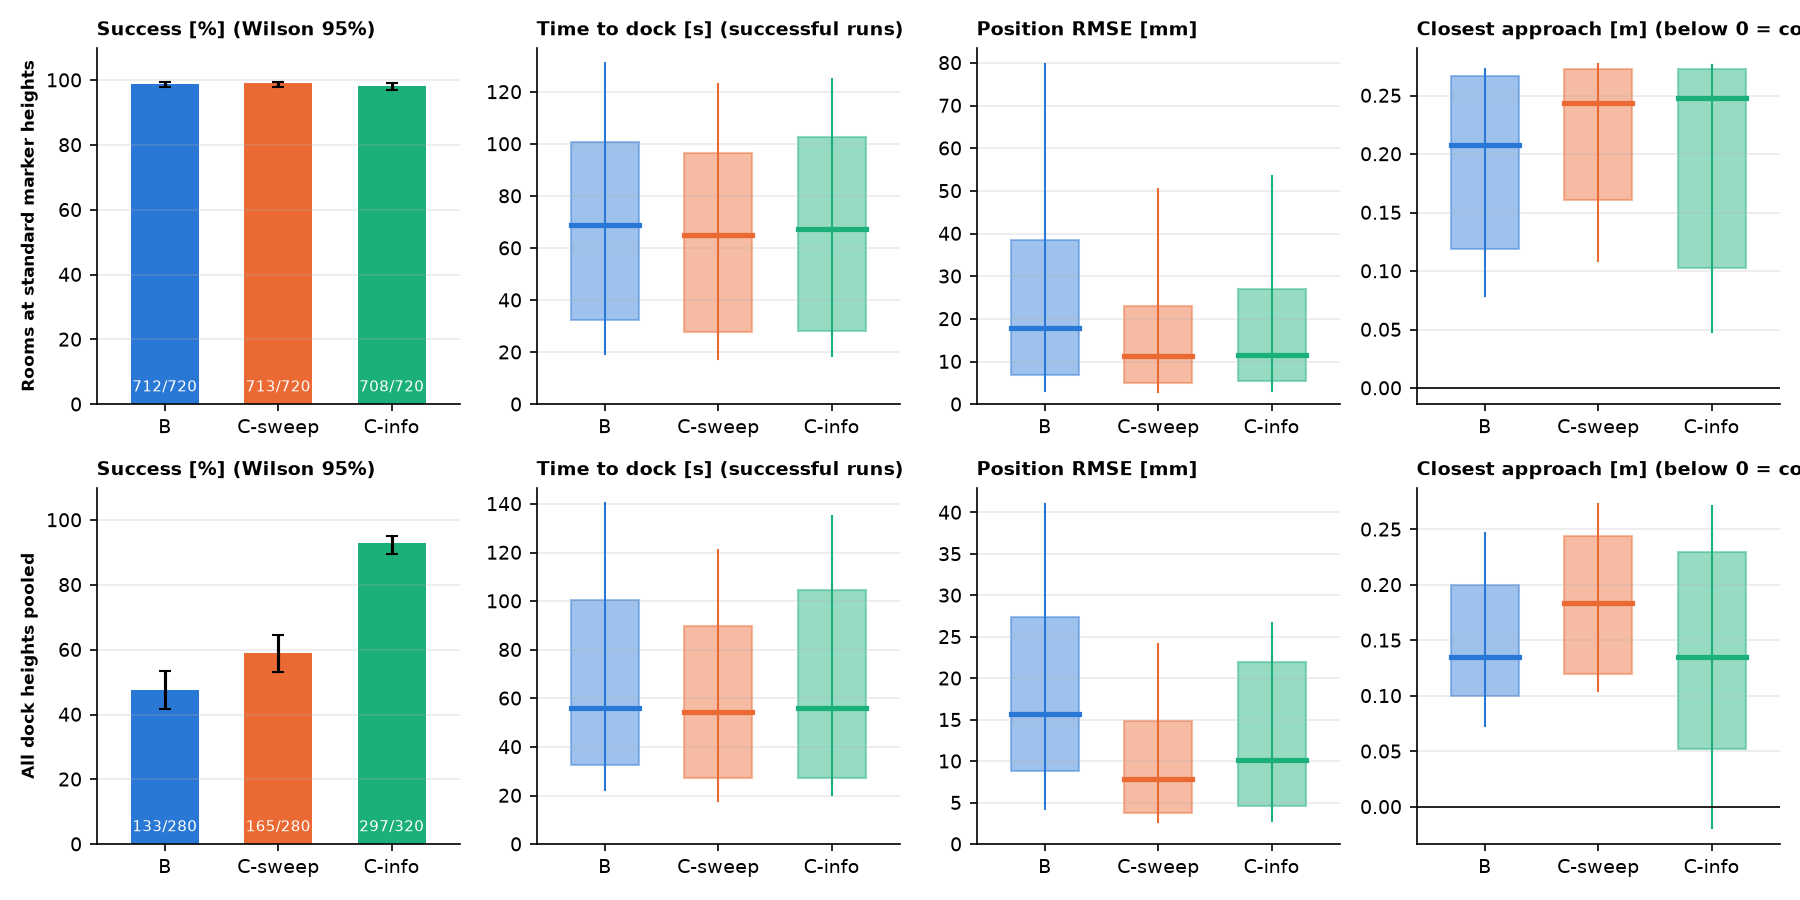
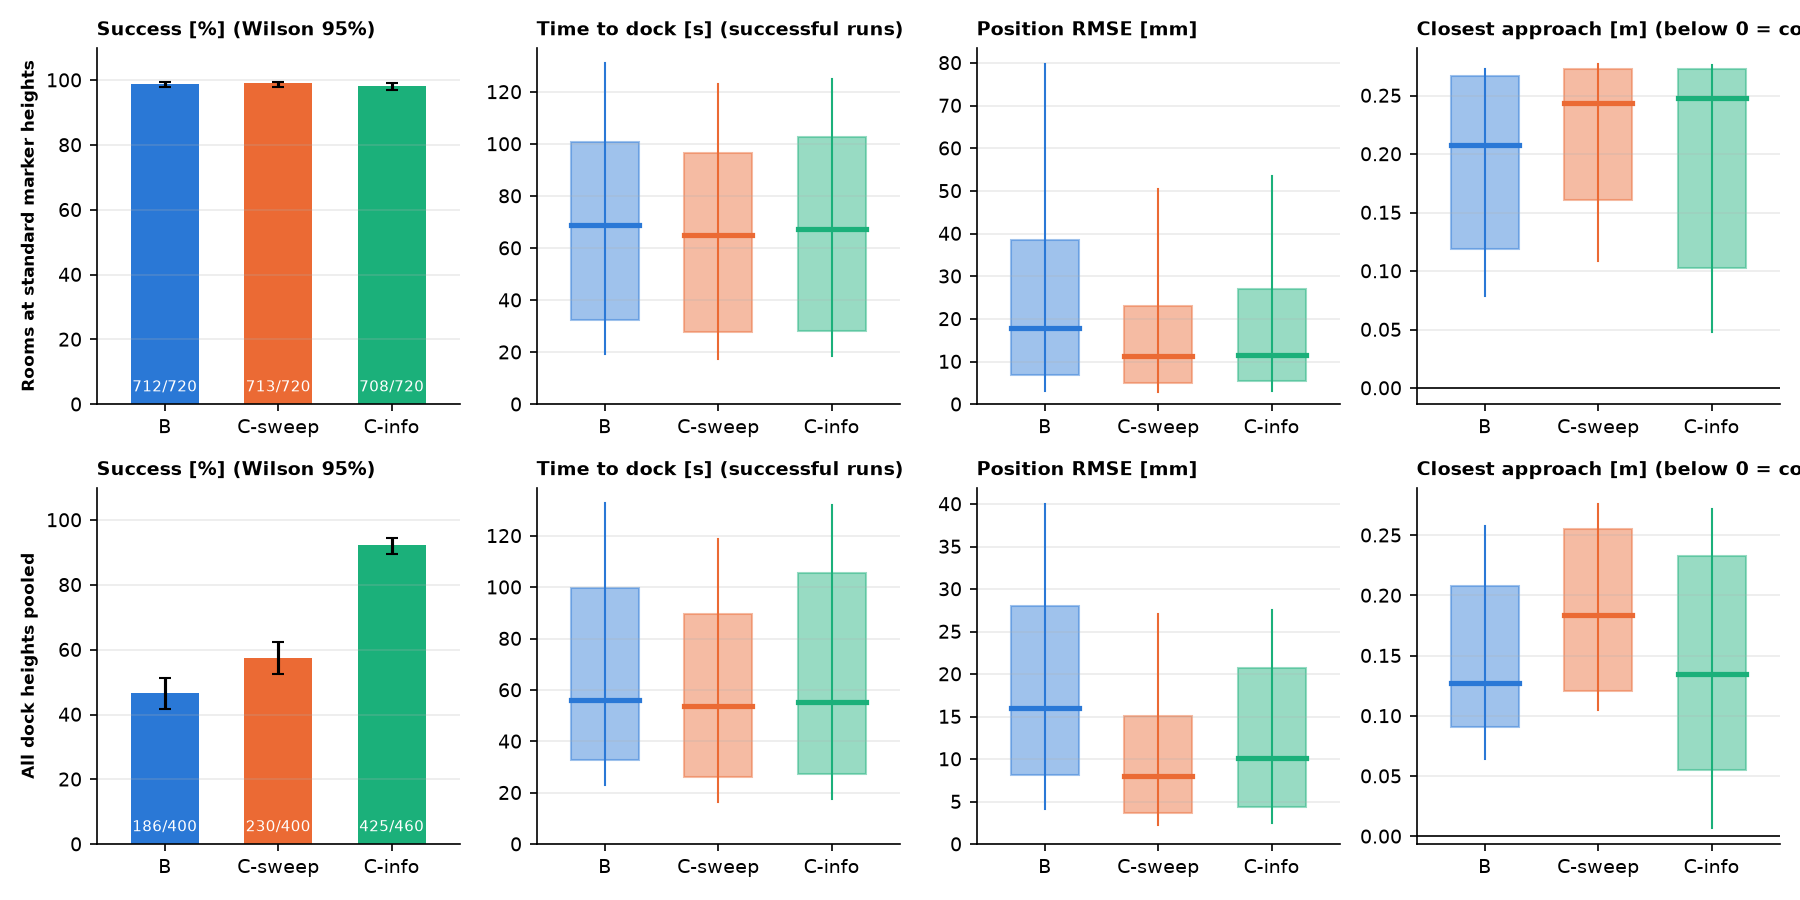
Updated figures, post data collection

diff --git a/scripts/analyse.py b/scripts/analyse.py
@@ -96,7 +96,9 @@ def pct(rows):
     """(percent docked, lower, upper) with a Wilson 95% interval."""
     n, k = len(rows), sum(r["ok"] for r in rows)
     lo, hi = wilson_interval(k, n)
-    return 100 * k / n, 100 * lo, 100 * hi
+    p = k / n
+    lo, hi = min(lo, p), max(hi, p)             # float rounding can put the interval a hair inside p (a negative error bar)
+    return 100 * p, 100 * lo, 100 * hi
 
 
 def md_table(head, body):
@@ -464,6 +466,73 @@ def main():
         save(fig, "11_tall_hard_rooms.png")
         out += ["## 11. Tall docks (0.45 and 0.6 m) in the hardest rooms, C-info (seeds 9000..)\n",
                 md_table(["room", "height", "docked", "median time [s]", "median RMSE [mm]", "contacts", "timeouts"], body), ""]
+
+    # ============================================================== 12. camera profile (D455) against the ideal camera, same seeds
+    cams = load("d455_pilot") + load("d455_full")
+    if cams:
+        ideal = main_rows + held + hrows + mixed
+        grp = lambda r: ("rooms, standard heights" if r["layout"] == "fixed" else "mixed heights" if "+heights" in r["layout"] else f"{r['z']:g} m dock")
+        dr = [dict(r, layout=r["layout"].replace("+d455", ""), config=r["config"] + "|d455") for r in cams]
+        keys = {(r["level"], r["layout"], r["seed"]) for r in dr}
+        ir = [dict(r, config=r["config"] + "|ideal") for r in ideal if (r["level"], r["layout"], r["seed"]) in keys]
+        both = ir + dr
+        groups = ["rooms, standard heights"] + sorted({grp(r) for r in dr} - {"rooms, standard heights"}, key=lambda g: (g.startswith("mixed"), float(g.split()[0]) if g[0].isdigit() else 0))
+        body, bars = [], {}
+        for g in groups:
+            for c in CFGS:
+                a = [r for r in ir if r["config"] == c + "|ideal" and grp(r) == g]
+                b = [r for r in dr if r["config"] == c + "|d455" and grp(r) == g]
+                if not b:
+                    continue
+                bars[(g, c)] = (a, b)
+                body.append([g, c, len(b), frac(a), frac(b), f"{med(a, 'pos_rmse_m', 1000):.1f} / {med(b, 'pos_rmse_m', 1000):.1f}",
+                             f"{med([r for r in a if r['ok']], 'duration_s'):.0f} / {med([r for r in b if r['ok']], 'duration_s'):.0f}",
+                             f"{sum(r['outcome'] == 'contact' for r in a)} / {sum(r['outcome'] == 'contact' for r in b)}",
+                             f"{sum(r['outcome'] == 'false dock' for r in a)} / {sum(r['outcome'] == 'false dock' for r in b)}"])
+        out += ["## 12. Camera profile: RealSense D455 against the ideal camera (same seeds, same rooms and dock heights)\n",
+                "Only the seeds the D455 runs have are used from the ideal camera, so every row compares like with like. Cells show ideal / D455.\n",
+                md_table(["scope", "config", "trials", "docked ideal", "docked D455", "median RMSE [mm]", "median time to dock [s]", "contacts", "false docks"], body), ""]
+        fig, axs = plt.subplots(1, 2, figsize=(11, 3.8), gridspec_kw={"width_ratios": [1.6, 1]})
+        w = 0.13
+        for gi, g in enumerate(groups):
+            for ci, c in enumerate(CFGS):
+                if (g, c) not in bars:
+                    continue
+                for ki, (rows_, hatch, al) in enumerate(zip(bars[(g, c)], ["", "//"], [0.55, 1.0])):
+                    if not rows_:
+                        continue
+                    p_, lo, hi = pct(rows_); x = gi + (ci * 2 + ki - 2.5) * w
+                    axs[0].bar(x, p_, width=w, color=COL[c], alpha=al, hatch=hatch, edgecolor="white")
+                    axs[0].errorbar(x, p_, yerr=[[p_ - lo], [hi - p_]], color="k", lw=0.7, capsize=1.5)
+        axs[0].set_xticks(range(len(groups))); axs[0].set_xticklabels(groups, fontsize=8); axs[0].set_ylim(0, 108); axs[0].set_ylabel("docked [%]")
+        axs[0].set_title("Docking: ideal (plain) against D455 (hatched), per config"); style(axs[0])
+        std = "rooms, standard heights"
+        for ci, c in enumerate(CFGS):
+            for ki, key in enumerate(["ideal", "d455"]):
+                v = vals([r for r in both if r["config"] == f"{c}|{key}" and grp(r) == std], "pos_rmse_m", 1000)
+                if len(v):
+                    bp = axs[1].boxplot(v, positions=[ci * 2.4 + ki * 0.9], widths=0.7, showfliers=False, patch_artist=True, medianprops=dict(color="k"))
+                    bp["boxes"][0].set(facecolor=COL[c], alpha=0.55 if key == "ideal" else 1.0, hatch="" if key == "ideal" else "//")
+        axs[1].set_xticks([ci * 2.4 + 0.45 for ci in range(3)]); axs[1].set_xticklabels(CFGS); axs[1].set_ylabel("position RMSE [mm]")
+        axs[1].set_title("Estimation, standard heights (ideal / D455)"); style(axs[1])
+        save(fig, "12_camera_d455.png")
+        body = []
+        for c in CFGS:
+            for g in groups:
+                sub = [r for r in both if grp(r) == g]
+                if not [r for r in sub if r["config"] == c + "|d455"]:
+                    continue
+                cells = []
+                for k, sc, nd in [("docked", 1, 0), ("pos_rmse_m", 1000, 1), ("duration_s", 1, 0), ("contact", 1, 0)]:
+                    m = cmp_row(sub, c + "|d455", c + "|ideal", k)
+                    cells.append(fmt_ci(m, sc, nd))
+                body.append([c, g, len({(r["level"], r["seed"]) for r in sub if r["config"] == c + "|d455"})] + cells)
+        out += ["Paired difference D455 minus ideal on the same seed [median or pp, 95% CI over seeds; nan = too few seeds for an interval]:\n",
+                md_table(["config", "scope", "seeds", "docking [pp]", "RMSE [mm]", "time to dock [s]", "contact [pp]"], body), "",
+                "How to read it. The D455 is fine to take into a full study if, at the standard heights, docking stays within a few points of the ideal "
+                "camera with no rise in contacts, the estimation error does not get clearly worse, and the dock-height result survives (C-info still docks "
+                "at 0.45 and 0.6 m; B and C-sweep still cannot). A drop that the interval excludes zero for, or new false docks, means the estimator or "
+                "the heading rule needs a look before spending a full study on it.\n"]
 
     (RES / "final_tables.md").write_text("\n".join(out))
     print("\n".join(out))

diff --git a/results/final_tables.md b/results/final_tables.md
@@ -2,7 +2,7 @@
 
 Common cap 300 s: a longer run counts as a timeout. Intervals: Wilson (proportions), bootstrap over seeds (paired differences).
 
-Rooms block: 2160 trials (360 development and 360 held-out trials per config). Height block: 880 trials over dock heights 0.2, 0.25, 0.3, 0.35, 0.45, 0.6, 0.9 m.
+Rooms block: 2160 trials (360 development and 360 held-out trials per config). Height block: 1260 trials over dock heights 0.2, 0.25, 0.3, 0.35, 0.45, 0.6, 0.9 m.
 
 ## 1. Pooled scorecard (box: 25-75th percentile, line: median, whisker: 10-90th)
 
@@ -11,21 +11,21 @@ Rooms block: 2160 trials (360 development and 360 held-out trials per config). H
 | Rooms at standard marker heights | B | 720 | 712/720 (99%) | 69 | 17.9 | 0.90 | 0.21 | 0 |
 | Rooms at standard marker heights | C-sweep | 720 | 713/720 (99%) | 65 | 11.2 | 0.80 | 0.24 | 1 |
 | Rooms at standard marker heights | C-info | 720 | 708/720 (98%) | 67 | 11.5 | 0.80 | 0.25 | 6 |
-| All dock heights pooled | B | 280 | 133/280 (48%) | 56 | 15.6 | 0.92 | 0.14 | 0 |
-| All dock heights pooled | C-sweep | 280 | 165/280 (59%) | 54 | 7.8 | 0.85 | 0.18 | 0 |
-| All dock heights pooled | C-info | 320 | 297/320 (93%) | 56 | 10.2 | 0.80 | 0.14 | 1 |
+| All dock heights pooled | B | 400 | 186/400 (46%) | 56 | 16.0 | 0.92 | 0.13 | 0 |
+| All dock heights pooled | C-sweep | 400 | 230/400 (58%) | 54 | 8.0 | 0.85 | 0.18 | 0 |
+| All dock heights pooled | C-info | 460 | 425/460 (92%) | 56 | 10.1 | 0.79 | 0.14 | 1 |
 
 ## 2. Docking success by dock-marker height (development, held-out and fresh seeds pooled)
 
 | height | B | C-sweep | C-info | B, tilt free |
 |---|---|---|---|---|
-| 0.2 m | 54/80 (68%) | 63/80 (79%) | 60/80 (75%) | 17/20 (85%) |
-| 0.25 m | 39/40 (98%) | 40/40 (100%) | 40/40 (100%) | - |
-| 0.3 m | 38/40 (95%) | 40/40 (100%) | 40/40 (100%) | 19/20 (95%) |
-| 0.35 m | 2/40 (5%) | 22/40 (55%) | 40/40 (100%) | - |
-| 0.45 m | 0/40 (0%) | 0/40 (0%) | 40/40 (100%) | 0/20 (0%) |
-| 0.6 m | 0/40 (0%) | 0/40 (0%) | 39/40 (98%) | 0/20 (0%) |
-| 0.9 m | - | - | 38/40 (95%) | - |
+| 0.2 m | 69/100 (69%) | 80/100 (80%) | 75/100 (75%) | 17/20 (85%) |
+| 0.25 m | 59/60 (98%) | 59/60 (98%) | 59/60 (98%) | - |
+| 0.3 m | 56/60 (93%) | 60/60 (100%) | 59/60 (98%) | 19/20 (95%) |
+| 0.35 m | 2/60 (3%) | 31/60 (52%) | 60/60 (100%) | - |
+| 0.45 m | 0/60 (0%) | 0/60 (0%) | 59/60 (98%) | 0/20 (0%) |
+| 0.6 m | 0/60 (0%) | 0/60 (0%) | 58/60 (97%) | 0/20 (0%) |
+| 0.9 m | - | - | 55/60 (92%) | - |
 
 Seeds: development 0..19, held-out 5000..5019 (both at every height), 6000..6039 (0.2 m only). B and C-sweep were not run at 0.9 m (cannot dock above about 0.33 m).
 
@@ -115,39 +115,39 @@ Pooled over all 12 rooms:
 | rooms | B | 720 | 712 | 1 | 0 | 6 | 1 |
 | rooms | C-sweep | 720 | 713 | 0 | 1 | 4 | 2 |
 | rooms | C-info | 720 | 708 | 0 | 6 | 5 | 1 |
-| 0.2 m | B | 80 | 54 | 26 | 0 | 0 | 0 |
-| 0.2 m | C-sweep | 80 | 63 | 17 | 0 | 0 | 0 |
-| 0.2 m | C-info | 80 | 60 | 19 | 1 | 0 | 0 |
-| 0.25 m | B | 40 | 39 | 1 | 0 | 0 | 0 |
-| 0.25 m | C-sweep | 40 | 40 | 0 | 0 | 0 | 0 |
-| 0.25 m | C-info | 40 | 40 | 0 | 0 | 0 | 0 |
-| 0.3 m | B | 40 | 38 | 1 | 0 | 1 | 0 |
-| 0.3 m | C-sweep | 40 | 40 | 0 | 0 | 0 | 0 |
-| 0.3 m | C-info | 40 | 40 | 0 | 0 | 0 | 0 |
-| 0.35 m | B | 40 | 2 | 0 | 0 | 38 | 0 |
-| 0.35 m | C-sweep | 40 | 22 | 12 | 0 | 6 | 0 |
-| 0.35 m | C-info | 40 | 40 | 0 | 0 | 0 | 0 |
-| 0.45 m | B | 40 | 0 | 0 | 0 | 39 | 1 |
-| 0.45 m | C-sweep | 40 | 0 | 0 | 0 | 39 | 1 |
-| 0.45 m | C-info | 40 | 40 | 0 | 0 | 0 | 0 |
-| 0.6 m | B | 40 | 0 | 0 | 0 | 39 | 1 |
-| 0.6 m | C-sweep | 40 | 0 | 0 | 0 | 39 | 1 |
-| 0.6 m | C-info | 40 | 39 | 0 | 0 | 1 | 0 |
-| 0.9 m | C-info | 40 | 38 | 0 | 0 | 0 | 2 |
+| 0.2 m | B | 100 | 69 | 31 | 0 | 0 | 0 |
+| 0.2 m | C-sweep | 100 | 80 | 20 | 0 | 0 | 0 |
+| 0.2 m | C-info | 100 | 75 | 24 | 1 | 0 | 0 |
+| 0.25 m | B | 60 | 59 | 1 | 0 | 0 | 0 |
+| 0.25 m | C-sweep | 60 | 59 | 0 | 0 | 1 | 0 |
+| 0.25 m | C-info | 60 | 59 | 0 | 0 | 1 | 0 |
+| 0.3 m | B | 60 | 56 | 1 | 0 | 3 | 0 |
+| 0.3 m | C-sweep | 60 | 60 | 0 | 0 | 0 | 0 |
+| 0.3 m | C-info | 60 | 59 | 0 | 0 | 1 | 0 |
+| 0.35 m | B | 60 | 2 | 0 | 0 | 58 | 0 |
+| 0.35 m | C-sweep | 60 | 31 | 17 | 0 | 12 | 0 |
+| 0.35 m | C-info | 60 | 60 | 0 | 0 | 0 | 0 |
+| 0.45 m | B | 60 | 0 | 0 | 0 | 59 | 1 |
+| 0.45 m | C-sweep | 60 | 0 | 0 | 0 | 59 | 1 |
+| 0.45 m | C-info | 60 | 59 | 0 | 0 | 0 | 1 |
+| 0.6 m | B | 60 | 0 | 0 | 0 | 59 | 1 |
+| 0.6 m | C-sweep | 60 | 0 | 0 | 0 | 59 | 1 |
+| 0.6 m | C-info | 60 | 58 | 0 | 0 | 1 | 1 |
+| 0.9 m | C-info | 60 | 55 | 0 | 0 | 0 | 5 |
 
-## 6. False docks (the robot stops and claims the dock but misses the 0.10 m / 5 degree tolerance)
+## 6. False docks by dock height, height block (the robot stops and claims the dock but misses the 0.10 m / 5 degree tolerance)
 
 | height | B | C-sweep | C-info |
 |---|---|---|---|
-| 0.2 m | 26/80 | 17/80 | 19/80 |
-| 0.25 m | 2/760 | 0/760 | 0/760 |
-| 0.3 m | 1/40 | 0/40 | 0/40 |
-| 0.35 m | 0/40 | 12/40 | 0/40 |
-| 0.45 m | 0/40 | 0/40 | 0/40 |
-| 0.6 m | 0/40 | 0/40 | 0/40 |
-| 0.9 m | 0/0 | 0/0 | 0/40 |
+| 0.2 m | 31/100 | 20/100 | 24/100 |
+| 0.25 m | 1/60 | 0/60 | 0/60 |
+| 0.3 m | 1/60 | 0/60 | 0/60 |
+| 0.35 m | 0/60 | 17/60 | 0/60 |
+| 0.45 m | 0/60 | 0/60 | 0/60 |
+| 0.6 m | 0/60 | 0/60 | 0/60 |
+| 0.9 m | 0/0 | 0/0 | 0/60 |
 
-77 false docks in all; median heading error 6.8 deg, median position miss 18 mm.
+95 false docks in all (rooms at standard heights included: B 1, C-sweep 0, C-info 0); median heading error 6.7 deg, median position miss 18 mm.
 
 ## 7. LQR path follower against go_to_point, same seeds
 
@@ -250,26 +250,90 @@ Reproducibility: 720 of 720 gaze-block trials repeated the main-block outcome an
 
 | config | n | docked | median RMSE [mm] | median landmarks | median coverage [%] |
 |---|---|---|---|---|---|
-| B | 60 | 30/60 (50%) | 37.0 | 6 | 72 |
-| C-sweep | 60 | 32/60 (53%) | 22.8 | 6 | 66 |
-| C-info | 60 | 57/60 (95%) | 23.1 | 6 | 62 |
+| B | 90 | 47/90 (52%) | 41.3 | 7 | 70 |
+| C-sweep | 90 | 52/90 (58%) | 21.6 | 6 | 66 |
+| C-info | 90 | 84/90 (93%) | 24.1 | 6 | 66 |
 
 | pair | metric | seeds | difference [95% CI] |
 |---|---|---|---|
-| C-info - B | docking [pp] | 60 | +45.0 [+31.7, +58.3] |
-| C-info - B | RMSE [mm] | 60 | -15.5 [-24.0, -6.5] |
-| C-sweep - B | docking [pp] | 60 | +3.3 [-3.3, +10.0] |
-| C-sweep - B | RMSE [mm] | 60 | -13.0 [-17.2, -1.7] |
-| C-info - C-sweep | docking [pp] | 60 | +41.7 [+26.7, +55.0] |
-| C-info - C-sweep | RMSE [mm] | 60 | -1.8 [-4.3, +1.0] |
+| C-info - B | docking [pp] | 90 | +41.1 [+30.0, +52.2] |
+| C-info - B | RMSE [mm] | 90 | -17.0 [-21.7, -11.0] |
+| C-sweep - B | docking [pp] | 90 | +5.6 [+0.0, +11.1] |
+| C-sweep - B | RMSE [mm] | 90 | -17.2 [-26.6, -10.5] |
+| C-info - C-sweep | docking [pp] | 90 | +35.6 [+23.3, +47.8] |
+| C-info - C-sweep | RMSE [mm] | 90 | -0.8 [-2.5, +3.0] |
 
 ## 11. Tall docks (0.45 and 0.6 m) in the hardest rooms, C-info (seeds 9000..)
 
 | room | height | docked | median time [s] | median RMSE [mm] | contacts | timeouts |
 |---|---|---|---|---|---|---|
-| cluttered_14 | 0.45 m | 16/20 (80%) | 228 | 58.0 | 3 | 1 |
-| cluttered_14 | 0.6 m | 16/20 (80%) | 228 | 58.0 | 3 | 1 |
-| people_random | 0.45 m | 20/20 (100%) | 57 | 9.2 | 0 | 0 |
-| people_random | 0.6 m | 20/20 (100%) | 56 | 8.8 | 0 | 0 |
-| sparse_noisy_odom | 0.45 m | 18/20 (90%) | 48 | 28.5 | 1 | 1 |
-| sparse_noisy_odom | 0.6 m | 18/20 (90%) | 48 | 47.7 | 1 | 1 |
+| cluttered_14 | 0.45 m | 25/30 (83%) | 209 | 63.0 | 3 | 2 |
+| cluttered_14 | 0.6 m | 25/30 (83%) | 208 | 63.7 | 3 | 2 |
+| people_random | 0.45 m | 29/30 (97%) | 75 | 8.3 | 0 | 0 |
+| people_random | 0.6 m | 29/30 (97%) | 71 | 8.6 | 0 | 0 |
+| sparse_noisy_odom | 0.45 m | 28/30 (93%) | 50 | 43.1 | 1 | 1 |
+| sparse_noisy_odom | 0.6 m | 28/30 (93%) | 50 | 47.7 | 1 | 1 |
+
+## 12. Camera profile: RealSense D455 against the ideal camera (same seeds, same rooms and dock heights)
+
+Only the seeds the D455 runs have are used from the ideal camera, so every row compares like with like. Cells show ideal / D455.
+
+| scope | config | trials | docked ideal | docked D455 | median RMSE [mm] | median time to dock [s] | contacts | false docks |
+|---|---|---|---|---|---|---|---|---|
+| rooms, standard heights | B | 240 | 234/240 (98%) | 236/240 (98%) | 20.1 / 17.1 | 71 / 66 | 0 / 0 | 0 / 0 |
+| rooms, standard heights | C-sweep | 240 | 236/240 (98%) | 238/240 (99%) | 12.1 / 20.3 | 67 / 66 | 1 / 1 | 0 / 0 |
+| rooms, standard heights | C-info | 240 | 234/240 (98%) | 228/240 (95%) | 12.2 / 20.9 | 68 / 66 | 3 / 2 | 0 / 0 |
+| 0.2 m dock | B | 20 | 15/20 (75%) | 15/20 (75%) | 15.6 / 17.6 | 87 / 60 | 0 / 0 | 5 / 5 |
+| 0.2 m dock | C-sweep | 20 | 15/20 (75%) | 16/20 (80%) | 7.6 / 13.6 | 83 / 56 | 0 / 0 | 5 / 4 |
+| 0.2 m dock | C-info | 20 | 19/20 (95%) | 15/20 (75%) | 10.4 / 17.5 | 56 / 62 | 0 / 0 | 1 / 4 |
+| 0.25 m dock | B | 20 | 20/20 (100%) | 20/20 (100%) | 15.4 / 17.0 | 68 / 59 | 0 / 0 | 0 / 0 |
+| 0.25 m dock | C-sweep | 20 | 20/20 (100%) | 20/20 (100%) | 7.8 / 14.4 | 57 / 55 | 0 / 0 | 0 / 0 |
+| 0.25 m dock | C-info | 20 | 20/20 (100%) | 20/20 (100%) | 9.7 / 15.3 | 55 / 59 | 0 / 0 | 0 / 0 |
+| 0.3 m dock | B | 20 | 20/20 (100%) | 20/20 (100%) | 15.8 / 14.6 | 71 / 61 | 0 / 0 | 0 / 0 |
+| 0.3 m dock | C-sweep | 20 | 20/20 (100%) | 20/20 (100%) | 8.9 / 13.9 | 57 / 55 | 0 / 0 | 0 / 0 |
+| 0.3 m dock | C-info | 20 | 20/20 (100%) | 20/20 (100%) | 9.9 / 15.2 | 56 / 59 | 0 / 0 | 0 / 0 |
+| 0.35 m dock | B | 20 | 0/20 (0%) | 2/20 (10%) | 17.6 / 28.2 | nan / 111 | 0 / 0 | 0 / 0 |
+| 0.35 m dock | C-sweep | 20 | 9/20 (45%) | 11/20 (55%) | 7.8 / 17.6 | 42 / 57 | 0 / 0 | 7 / 9 |
+| 0.35 m dock | C-info | 20 | 20/20 (100%) | 20/20 (100%) | 10.6 / 16.8 | 56 / 58 | 0 / 0 | 0 / 0 |
+| 0.45 m dock | B | 20 | 0/20 (0%) | 0/20 (0%) | 24.4 / 32.5 | nan / nan | 0 / 0 | 0 / 0 |
+| 0.45 m dock | C-sweep | 20 | 0/20 (0%) | 0/20 (0%) | 7.5 / 12.4 | nan / nan | 0 / 0 | 0 / 0 |
+| 0.45 m dock | C-info | 20 | 20/20 (100%) | 20/20 (100%) | 10.8 / 15.3 | 56 / 59 | 0 / 0 | 0 / 0 |
+| 0.6 m dock | B | 20 | 0/20 (0%) | 0/20 (0%) | 26.5 / 38.0 | nan / nan | 0 / 0 | 0 / 0 |
+| 0.6 m dock | C-sweep | 20 | 0/20 (0%) | 0/20 (0%) | 9.6 / 17.0 | nan / nan | 0 / 0 | 0 / 0 |
+| 0.6 m dock | C-info | 20 | 20/20 (100%) | 19/20 (95%) | 10.3 / 15.1 | 56 / 72 | 0 / 0 | 0 / 0 |
+| 0.9 m dock | C-info | 20 | 19/20 (95%) | 18/20 (90%) | 12.7 / 14.4 | 56 / 75 | 0 / 0 | 0 / 0 |
+| mixed heights | B | 60 | 30/60 (50%) | 26/60 (43%) | 37.0 / 38.6 | 100 / 102 | 0 / 0 | 1 / 6 |
+| mixed heights | C-sweep | 60 | 32/60 (53%) | 29/60 (48%) | 22.8 / 35.4 | 94 / 90 | 0 / 0 | 1 / 3 |
+| mixed heights | C-info | 60 | 57/60 (95%) | 51/60 (85%) | 23.1 / 25.9 | 94 / 83 | 1 / 1 | 1 / 1 |
+
+Paired difference D455 minus ideal on the same seed [median or pp, 95% CI over seeds; nan = too few seeds for an interval]:
+
+| config | scope | seeds | docking [pp] | RMSE [mm] | time to dock [s] | contact [pp] |
+|---|---|---|---|---|---|---|
+| B | rooms, standard heights | 240 | +1 [-1, +3] | -0.1 [-1.2, +0.8] | -1 [-2, -1] | +0 [+0, +0] |
+| B | 0.2 m dock | 20 | +0 [-25, +25] | +0.9 [-3.9, +12.0] | -10 [-19, +3] | +0 [+0, +0] |
+| B | 0.25 m dock | 20 | +0 [+0, +0] | +1.8 [-1.8, +8.5] | -5 [-18, +0] | +0 [+0, +0] |
+| B | 0.3 m dock | 20 | +0 [+0, +0] | -0.3 [-3.1, +5.5] | -11 [-30, -1] | +0 [+0, +0] |
+| B | 0.35 m dock | 20 | +10 [+0, +25] | +11.0 [+2.6, +22.7] | - | +0 [+0, +0] |
+| B | 0.45 m dock | 20 | +0 [+0, +0] | +17.2 [+2.7, +23.0] | - | +0 [+0, +0] |
+| B | 0.6 m dock | 20 | +0 [+0, +0] | +9.5 [+4.9, +21.2] | - | +0 [+0, +0] |
+| B | mixed heights | 60 | -7 [-17, +3] | +0.2 [-9.0, +6.6] | -4 [-18, -1] | +0 [+0, +0] |
+| C-sweep | rooms, standard heights | 240 | +1 [+0, +2] | +1.6 [+0.5, +5.8] | -0 [-1, -0] | +0 [+0, +0] |
+| C-sweep | 0.2 m dock | 20 | +5 [-15, +25] | +2.6 [+0.7, +15.4] | -2 [-4, +5] | +0 [+0, +0] |
+| C-sweep | 0.25 m dock | 20 | +0 [+0, +0] | +1.2 [-0.2, +15.9] | -1 [-6, -0] | +0 [+0, +0] |
+| C-sweep | 0.3 m dock | 20 | +0 [+0, +0] | +1.1 [-0.8, +15.7] | -1 [-6, -0] | +0 [+0, +0] |
+| C-sweep | 0.35 m dock | 20 | +10 [-25, +40] | +0.6 [-2.1, +17.6] | +10 [-17, +119] | +0 [+0, +0] |
+| C-sweep | 0.45 m dock | 20 | +0 [+0, +0] | +4.3 [+0.4, +13.0] | - | +0 [+0, +0] |
+| C-sweep | 0.6 m dock | 20 | +0 [+0, +0] | +8.6 [-0.7, +15.0] | - | +0 [+0, +0] |
+| C-sweep | mixed heights | 60 | -5 [-13, +2] | +4.2 [+0.4, +17.6] | -0 [-2, +2] | +0 [+0, +0] |
+| C-info | rooms, standard heights | 240 | -2 [-6, +1] | +3.5 [+2.1, +5.6] | +0 [-0, +0] | -0 [-2, +1] |
+| C-info | 0.2 m dock | 20 | -20 [-40, +0] | +4.6 [+1.1, +12.3] | +2 [-1, +4] | +0 [+0, +0] |
+| C-info | 0.25 m dock | 20 | +0 [+0, +0] | +3.3 [-0.0, +11.1] | +0 [-1, +1] | +0 [+0, +0] |
+| C-info | 0.3 m dock | 20 | +0 [+0, +0] | +3.4 [+0.1, +10.3] | -0 [-2, +1] | +0 [+0, +0] |
+| C-info | 0.35 m dock | 20 | +0 [+0, +0] | +2.9 [+0.3, +10.3] | -1 [-3, +0] | +0 [+0, +0] |
+| C-info | 0.45 m dock | 20 | +0 [+0, +0] | +1.7 [-1.2, +11.3] | +0 [-1, +1] | +0 [+0, +0] |
+| C-info | 0.6 m dock | 20 | -5 [-15, +0] | +2.2 [-0.4, +11.2] | -0 [-2, +1] | +0 [+0, +0] |
+| C-info | 0.9 m dock | 20 | -5 [-15, +0] | +2.8 [-5.5, +9.7] | -1 [-4, +1] | +0 [+0, +0] |
+| C-info | mixed heights | 60 | -10 [-20, -2] | +2.1 [-0.8, +10.2] | +0 [-2, +2] | +0 [-5, +5] |
+
+How to read it. The D455 is fine to take into a full study if, at the standard heights, docking stays within a few points of the ideal camera with no rise in contacts, the estimation error does not get clearly worse, and the dock-height result survives (C-info still docks at 0.45 and 0.6 m; B and C-sweep still cannot). A drop that the interval excludes zero for, or new false docks, means the estimator or the heading rule needs a look before spending a full study on it.
